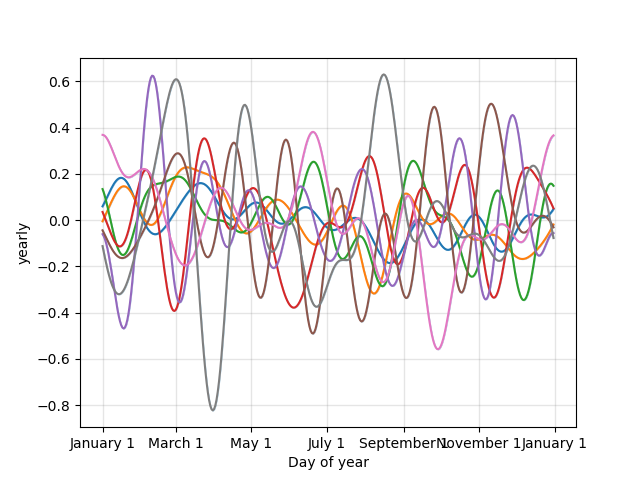
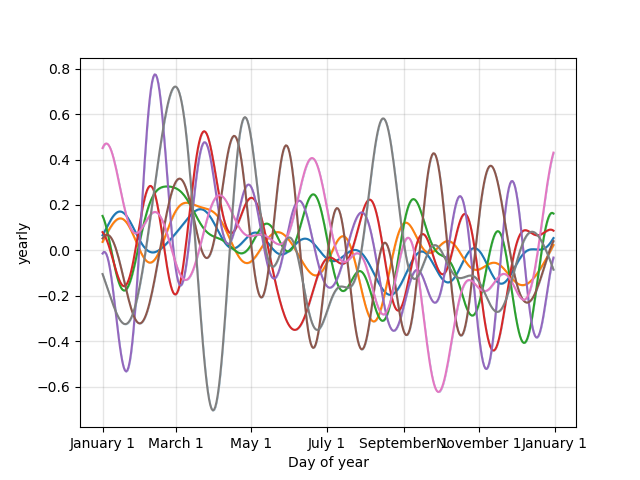
nincs komment

diff --git a/Code/FrontEnd/static/js/ip-script.js b/Code/FrontEnd/static/js/ip-script.js
@@ -227,9 +227,6 @@ function renderCameras() {
             $(outerdiv).css('background-color', '#f0f0f0');
             createCamInfo(camera, id);
 
-            //$(showimagespan).text("visibility_off");
-            //$(".camera-list-item").css("pointer-events", "none");
-
             var beforeFrame = $(caminfo).children(".before");
             beforeFrame.css('display', 'block');
             var alive = $(caminfo).children(".alive").children(".ip-addr");
@@ -356,8 +353,6 @@ function cameraAlive(id, container, parent, before) {
         before.children(".ip-addr").text("Before Pending: Online");
         before.css('display', 'none');
 
-        //makeCameraVisible(parent.children(".icons"));
-        //$(".camera-list-item").css("pointer-events", "auto");
         cameras[id].beforestatus = CameraStatus.Started;
     }).fail(function(xhr, statusText, err) {
         console.log(xhr.status);
@@ -368,7 +363,6 @@ function cameraAlive(id, container, parent, before) {
         cameras[id].status = CameraStatus.Paused;
         cameras[id].beforestatus = CameraStatus.Paused;
         renderCameras();
-        //$(".camera-list-item").css("pointer-events", "auto");
     });
 }
 
@@ -418,12 +412,6 @@ $("#addIPModal").on("hidden.bs.modal", function () {
     $("#advanced-modal").attr("hidden", "hidden");
     $("#expand-span").text("expand_more");
     $("#addimgtype").val("shot.jpg");
-});
-
-$("#showImageModal").on("shown.bs.modal", function () {
-    //TODO Itt megcsinálni hogy az adott képre vonatkozzon amelyikre kattintasz.
-    //var id = $(".ipShowImage").index($(this));
-    //showImageInterval = setInterval(refreshImage.bind(id), 1000);
 });
 
 $("#showImageModal").on("hidden.bs.modal", function () {

diff --git a/Code/BackEnd/Prediction.py b/Code/BackEnd/Prediction.py
@@ -3,13 +3,8 @@ from fbprophet import Prophet
 import datetime
 import os
 import sys
-import random
-import holidays as holidays
 from matplotlib import pyplot as plt, colors
 from fbprophet.plot import plot_forecast_component, plot_yearly, plot_weekly
-import time
-import threading
-import json
 
 class PredictionInfo :
     def __init__(self):
@@ -67,7 +62,6 @@ class Prediction:
         self.predictableTime = time
         self.countPeriodNum()
         return self.predict()
-        #return self.predictableTime + "\n\n" + self.predict()
 
     def countPeriodNum(self):
         refDate = str((pd.DatetimeIndex(self.df['time']).values)[len(self.df.index) - 1])
@@ -116,22 +110,19 @@ class Prediction:
             else:
                 predictdf['y'] = self.df['gender'].apply(lambda x: self.getValue(x, i - 8))
             predictdf.drop(['time', 'gender', 'age'], axis=1, inplace=True)
-            predictdf['cap'] = 100
+            predictdf['cap'] = predictdf['y'].max()
             predictdf['floor'] = 0
 
-            self.models.append(Prophet(interval_width=0.95, daily_seasonality=True, weekly_seasonality=True, yearly_seasonality=True, growth='logistic', holidays=self.holidays))
-            #m.add_seasonality(name="monthly", period=30.5*12, fourier_order=8)
+            self.models.append(Prophet(interval_width=0.95, daily_seasonality=False, weekly_seasonality=True, yearly_seasonality=True, growth='logistic', holidays=self.holidays))
 
             with suppress_stdout_stderr():
                 self.models[i].fit(predictdf)
             future = self.models[i].make_future_dataframe(periods=self.periodNum, freq='2H', include_history=False)
-            future['cap'] = 100
+            future['cap'] = predictdf['y'].max()
             future['floor'] = 0
             self.forecasts.append(self.models[i].predict(future))
             self.forecasts[i].head()
 
-            #self.models.append(m)
-            #self.forecasts.append(forecast)
 
             personPred = self.forecasts[i][['yhat']].values[self.periodNum - 1][0]
             if i < 8:
@@ -140,17 +131,16 @@ class Prediction:
                 genderSum += personPred
             dataList.append(personPred)
 
+            self.colorBuffer.append(colors.to_hex('C' + str(i)))
             self.progressBar(i)
 
         for i in range(8):
             predInfo.ageBuffer.append(round(dataList[i], 2))
             predInfo.agePercentBuffer.append(round((dataList[i] / ageSum) * 100, 2))
-            #information += self.stringList[i] + str(round((dataList[i] / ageSum) * 100, 2)) + "% -> " + str(round(dataList[i], 2)) + "\n"
-        #information += "\n"
+
         for i in range(8, 10):
             predInfo.genderBuffer.append(round(dataList[i], 2))
             predInfo.genderPercentBuffer.append(round((dataList[i] / genderSum) * 100, 2))
-            #information += self.stringList[i] + str(round((dataList[i] / genderSum) * 100, 2)) + "% -> " + str(round(dataList[i], 2)) + "\n"
 
         json = {
                 "ageBuffer": predInfo.ageBuffer,
@@ -189,7 +179,6 @@ class Prediction:
                     self.axises[4].get_lines()[i - 8].set_color('C' + str(i))
                     self.axises[5].get_lines()[i - 8].set_color('C' + str(i))
                 i += 1
-                self.colorBuffer.append(colors.to_hex('C' + str(i)))
                 self.progressBar(i)
             for j in range(6) :
                 self.createImages(j)
@@ -246,7 +235,3 @@ class Prediction:
         print(monthpercent)
         print(weekpercent)
 
-'''predict = Prediction()
-print(predict.getPrediction('2021-05-02 04:00:00', '192-168-0-176-8080'))
-predict.processPlot()
-predict.createStats()'''

diff --git a/Code/BackEnd/IPCamera.py b/Code/BackEnd/IPCamera.py
@@ -80,6 +80,7 @@ class IPCamera:
         self.cameraThread = threading.Thread(target=self.ipcamFaceDetect, args=())
         self.writeThread = threading.Thread(target=self.writeCSV, args=())
         self.frame = 0
+        self.faces = [[0, 0, 0, 0]]
         self.age_model = cv2.dnn.readNetFromCaffe("BackEnd/Models/age.prototxt", "BackEnd/Models/age.caffemodel")
         self.gender_model = cv2.dnn.readNetFromCaffe("BackEnd/Models/gender.prototxt",
                                                      "BackEnd/Models/gender.caffemodel")
@@ -203,7 +204,6 @@ class IPCamera:
                 break
             
             if frame is not None:
-                self.frame = frame
                 gray = cv2.cvtColor(frame, cv2.COLOR_BGR2GRAY)
                 faces = self.haar_detector.detectMultiScale(gray, 1.2, 5)
 
@@ -222,6 +222,9 @@ class IPCamera:
                     gendernum = np.argmax(gender_pred)
                     self.personBucket.increaseGenderBucket(gendernum)
 
+                self.faces = faces
+                self.frame = frame
+
             if (self.intervalHandler.isDataSaveable() and not self.writeThread.isAlive()):
                 self.writeThread.start()
 
@@ -235,9 +238,8 @@ class IPCamera:
     def saveImage(self):
         while not self.stopped:
             if self.frame is not None:
-                time.sleep(1)
+                for face in self.faces:
+                    x, y, w, h = face
+                    cv2.rectangle(self.frame, (x, y), (x + w, y + h), (255, 255, 0), 2)
                 cv2.imwrite("DB/cameraPhotos/" + self.filename + ".png", self.frame)
-
-
-'''camera = IPCamera("192.168.0.114:8080", "NagyViktor", CameraStatus.Paused, "shot.jpg")
-camera.startCameraThread()'''
+            time.sleep(1)
